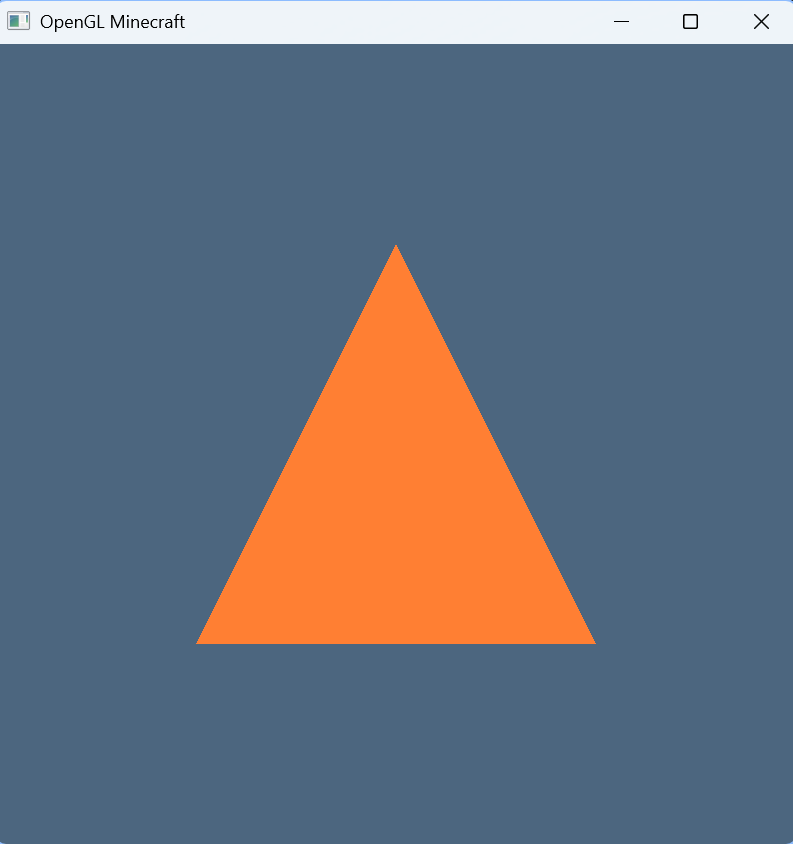
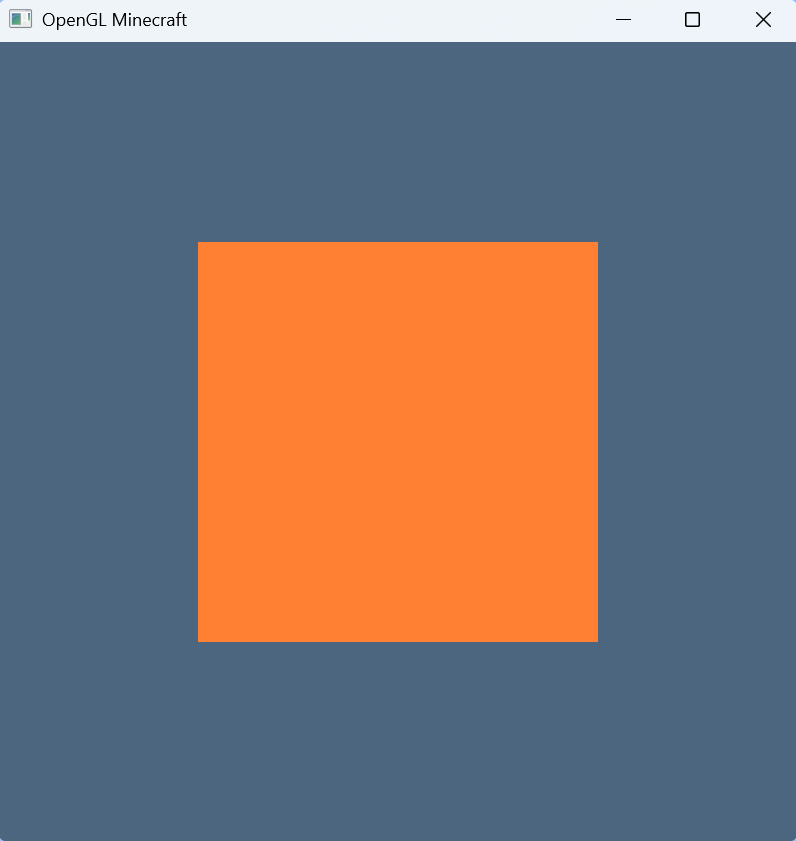
Rectangle Rendering

diff --git a/src/gfx/renderer.cpp b/src/gfx/renderer.cpp
@@ -1,15 +1,13 @@
-#define GLAD_GL_IMPLEMENTATION = 1
+#define GLAD_GL_IMPLEMENTATION 1
 
 #include <cstdlib>
 #include <glad/gl.h>
 #include <GLFW/glfw3.h>
 
-#include "gfx/renderer.h"
-#include "gfx/vbo.h"
-
 #include "util/logger.h"
+#include "gfx/renderer.h"
 
-Renderer::Renderer() : m_Window {800, 800}, m_Vbo {}, m_Vao {}, m_ShaderProgram {}
+Renderer::Renderer() : m_Window {800, 800}, m_Vbo {}, m_Vao {}, m_Ebo {}, m_ShaderProgram {}
 {
 }
 
@@ -22,8 +20,15 @@ void Renderer::Init()
     List<float> verticies 
     {
         -0.5f, -0.5f, 0.0f,
+        -0.5f, 0.5f, 0.0f,
         0.5f, -0.5f, 0.0f,
-        -0.0f, 0.5f, 0.0f,
+        0.5f, 0.5f, 0.0f
+    };
+    
+    List<uint32> indicies 
+    {
+        0, 1, 2,
+        1, 2, 3
     };
     
     if (!gladLoadGL(reinterpret_cast<GLADloadfunc>(glfwGetProcAddress)))
@@ -37,10 +42,11 @@ void Renderer::Init()
     
     m_Vao.Init();
     
-    m_Vbo.Init();
+    m_Vbo.Init(verticies, BufferType::Vbo);
     
-    m_Vbo.CopyDataToBuffer(verticies);
+    m_Ebo.Init(indicies, BufferType::Ebo); 
     
+    // Magic value :(
     glVertexAttribPointer(0, 3, GL_FLOAT, GL_FALSE, 3 * sizeof(float), (void*) 0);
     glEnableVertexAttribArray(0);
     
@@ -57,7 +63,8 @@ void Renderer::Run()
     
     m_Vao.Bind();
     
-    glDrawArrays(GL_TRIANGLES, 0, 3);
+    // Magic value :(
+    glDrawElements(GL_TRIANGLES, 6, GL_UNSIGNED_INT, 0);
     
     glfwSwapBuffers(m_Window.GetWindow());
     glfwPollEvents();

diff --git a/src/gfx/buffer_object.cpp b/src/gfx/buffer_object.cpp
@@ -1,0 +1,29 @@
+#include <cstdlib>
+#include <glad/gl.h>
+
+#include "gfx/buffer_object.h"
+
+#include "util/logger.h"
+
+void BufferObject::InitHelper(void* Data, const SizeT Size, const BufferType BufferType)
+{
+    glGenBuffers(1, &m_Id);
+
+    int bufferType {0};
+    
+    switch (BufferType)
+    {
+    case BufferType::Ebo:
+        bufferType = GL_ELEMENT_ARRAY_BUFFER;
+        break;
+    case BufferType::Vbo:
+        bufferType = GL_ARRAY_BUFFER;
+        break;
+    default:
+        Logger::GetInstance()->Log("Unknown buffer type.",  LogLevel::Error);
+        exit(EXIT_FAILURE);
+    };
+    
+	glBindBuffer(bufferType, m_Id);
+    glBufferData(bufferType, Size, Data, GL_STATIC_DRAW);
+}

diff --git a/include/gfx/buffer_object.h b/include/gfx/buffer_object.h
@@ -1,0 +1,27 @@
+#pragma once
+
+#include "util/types.h"
+
+enum class BufferType : uint32
+{
+    Vbo = 0,
+    Ebo,
+};
+
+class BufferObject
+{
+public:
+    void Init(List<float> Data, const BufferType BufferType)
+    {
+        InitHelper(Data.data(), sizeof(float) * Data.size(), BufferType);
+    }
+    
+    void Init(List<uint32> Data, const BufferType BufferType)
+    {
+        InitHelper(Data.data(), sizeof(uint32) * Data.size(), BufferType);
+    }
+private:
+    uint32 m_Id;
+    
+    void InitHelper(void* Data, const SizeT Size, const BufferType BufferType);
+};

diff --git a/include/gfx/renderer.h b/include/gfx/renderer.h
@@ -3,9 +3,9 @@
 #include "engine/engine_system.h"
 
 #include "gfx/window.h"
-#include "gfx/vbo.h"
 #include "gfx/vao.h"
 #include "gfx/shader_program.h"
+#include "gfx/buffer_object.h"
 
 class Renderer : public EngineSystem
 {
@@ -30,9 +30,11 @@ public:
 private:
     Window m_Window;
     
-    Vbo m_Vbo;
+    BufferObject m_Vbo;
     
     Vao m_Vao;
+    
+    BufferObject m_Ebo;
     
     ShaderProgram m_ShaderProgram;
 };

diff --git a/include/util/types.h b/include/util/types.h
@@ -5,6 +5,8 @@
 #include <cstdint>
 #include <vector>
 
+using SizeT = size_t;
+
 template<typename T>
 using UniquePtr = std::unique_ptr<T>;
 
